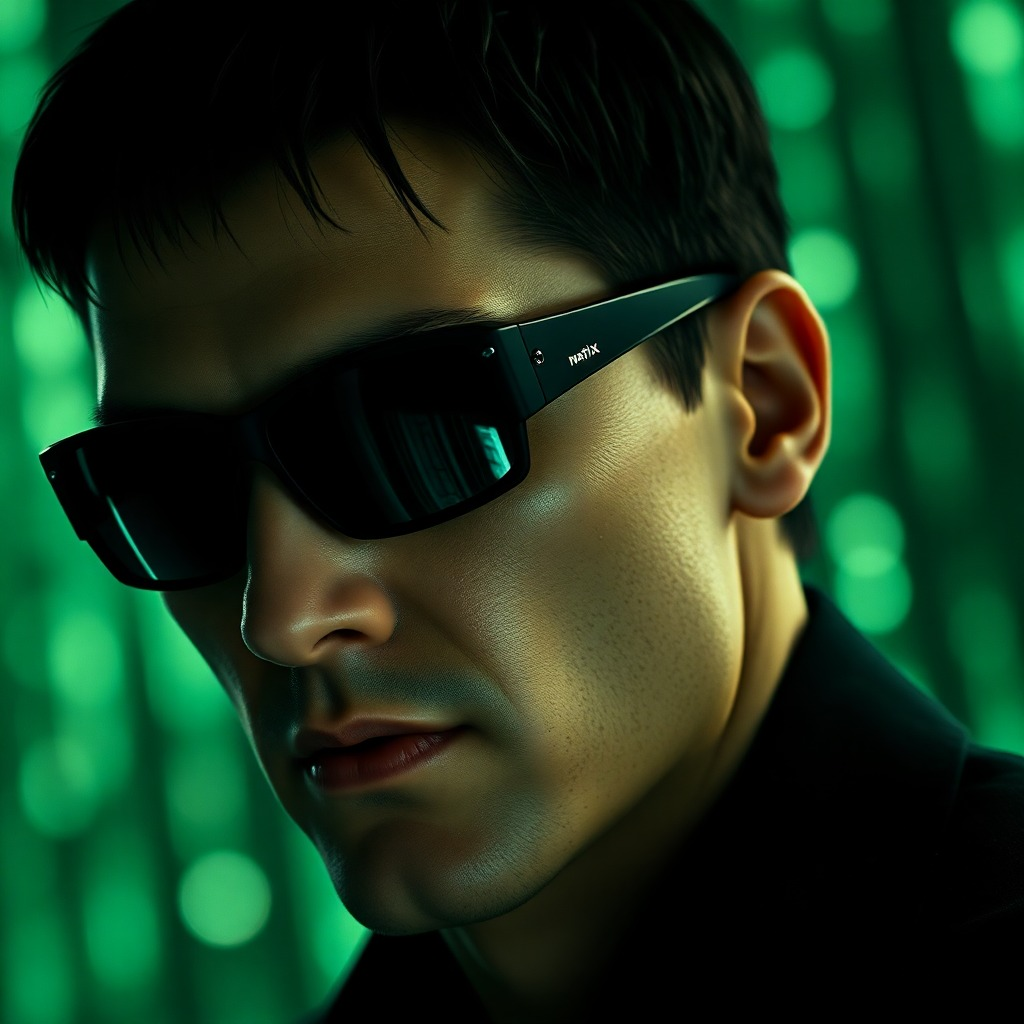
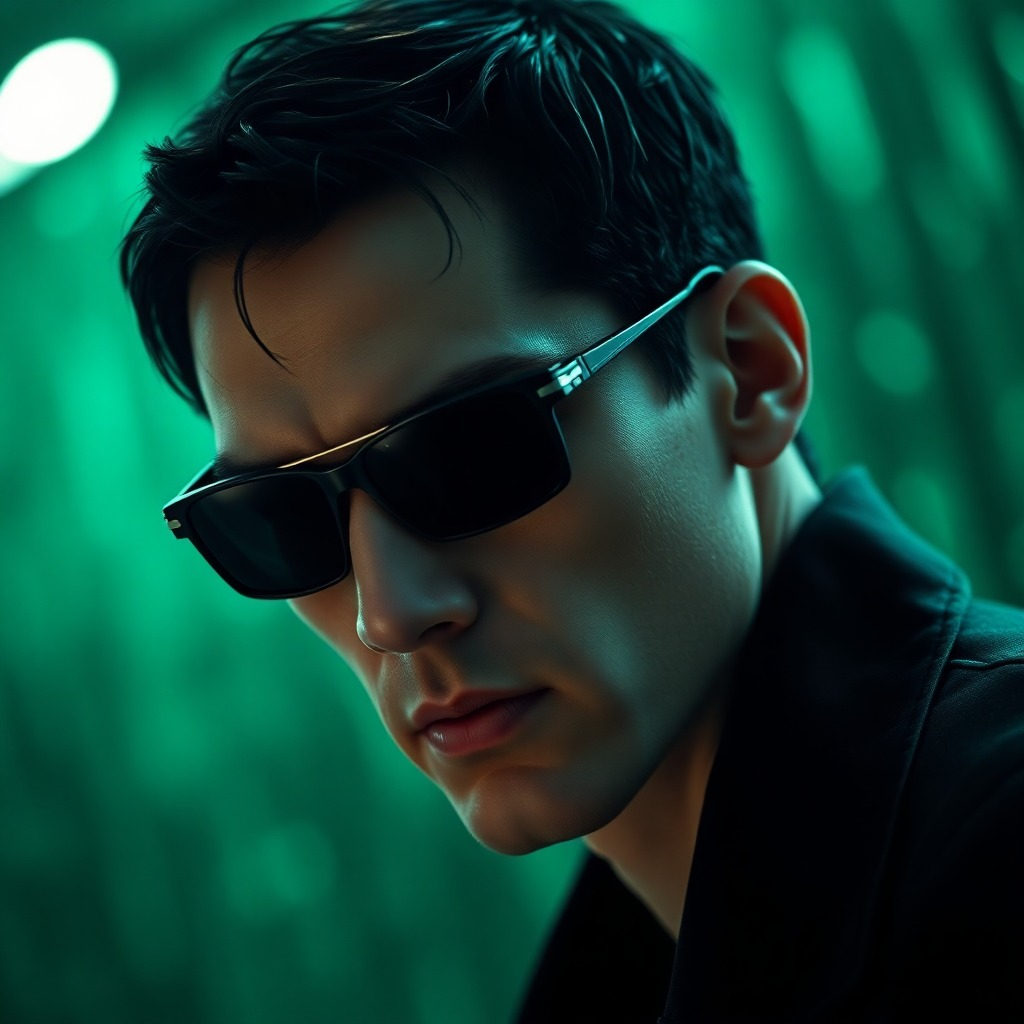
Polish renders, add backgrounds, full-body push, drop IP characters
Render quality (#1):
- Tighten InstantID weights across the board (lower controlnet 0.5→0.42
  for yourself, 0.4→0.32 for animated) — less face over-tracing, fewer
  proportion warps
- Bump steps 30→40 for cleaner output
- Stronger negative prompt: distorted proportions, asymmetric face,
  harsh under/top-light, blown highlights, missing feet/legs
- Positive prompt suffix: balanced three-point lighting,
  anatomically correct proportions, symmetric features
- Enable enhance_nonface_region for better full-body coherence

Backgrounds (#2):
- New BACKGROUNDS map: auto / city / nature / studio / cinematic /
  beach / abstract / night
- Horizontally-scrollable pill picker on the bank screen, sent as `bg`
  field, overrides the avatar's default env

Full body (#4):
- Add ULTRA-IMPORTANT FRAMING rule forcing full body, head to toe,
  feet visible into the system prompt
- Inject "full body, wide standing pose, feet visible" into the
  InstantID prompt suffix

Legal cleanup (#3, option A):
- Remove all IP-based characters: Mario, Mickey, Master Chief, Geralt,
  Aragorn, Link, Kratos, Joker, Neo, Arthas, Illidan, Sylvanas
- Replace Simpsons → "Yellow Toon Me": same flat-yellow-cartoon style
  but described generically (style is not copyrightable; named
  characters/places are)
- Delete the IP portrait JPGs from frontend/portraits/
- Generate new yellow_toon.jpg with non-infringing prompt
- Strip Matt Groening / Simpsons / Springfield references from style
[…]

diff --git a/backend/server.js b/backend/server.js
@@ -26,24 +26,25 @@ const AVATARS = {
   owl:          { name: 'Great Owl',    animal: 'great horned owl', base: 'huge luminous amber eyes, mottled brown-grey feathers, broad silent wings, wise expression', env: 'old-growth forest at night, full moon visible through dark twisted branches, fireflies glowing in the darkness, thick ancient tree trunk' },
   yourself:   { name: 'Just Me',    animal: 'regular contemporary person',  base: 'natural realistic features, smooth flattering skin, casual modern clothing, relaxed confident expression, authentic everyday look — no costume, no theme', env: 'bright overcast outdoor setting or open shade on a quiet city street, soft diffused daylight, gentle out-of-focus background, clean soft portrait lighting — no direct sun, no harsh shadows' },
   animated:   { name: 'Animated Me', animal: '2D animated TV-series character version of the person, in the visual style of the Netflix Stranger Things animated series (Flying Bark Productions) — modern western animation, semi-realistic stylized 2D, comparable to Arcane / Blood of Zeus', base: 'clean confident line work, painterly cel-shaded skin with soft gradient shadows, slightly stylized but anatomically grounded face proportions, expressive eyes with crisp highlights, hair drawn as defined shape clusters with painted highlights, recognizable likeness preserved (same face shape, hair, beard, skin tone), outfit chosen to fit their personality, looks like an official key frame from a high-end animated series', env: 'cinematic painted backdrop in the same animation style — subtle environmental scene matching their personality, hand-painted depth, soft atmospheric haze, restrained color palette, dramatic but not theatrical lighting' },
-  link:        { name: 'Link',          animal: 'Link from The Legend of Zelda', base: 'green tunic, pointed elf ears, blonde hair, blue determined eyes, master sword on back', env: 'lush Hyrule field at golden hour, distant mountains, swaying grass, soft volumetric god rays' },
-  kratos:      { name: 'Kratos',        animal: 'Kratos from God of War',        base: 'pale skin with red tattoo, beard, intense angry eyes, leviathan axe, leather armor', env: 'ash-grey Norse battlefield, broken stone runes, swirling smoke, dim cold backlight' },
-  mario:       { name: 'Mario',         animal: 'Super Mario',                   base: 'red cap with M, blue overalls, thick black mustache, cheerful smile, white gloves', env: 'Mushroom Kingdom green field, fluffy clouds, floating coins, bright cheerful lighting' },
-  master_chief:{ name: 'Master Chief',  animal: 'Master Chief from Halo',        base: 'green spartan armor, gold reflective visor helmet, MA5 rifle, heavy boots', env: 'alien battlefield at twilight, glassed earth, distant covenant ships, glowing plasma, volumetric haze' },
-  geralt:      { name: 'Geralt',        animal: 'Geralt of Rivia from The Witcher', base: 'long white hair, yellow cat eyes, scarred face, two swords on back, dark leather armor', env: 'dark misty swamp at dusk, gnarled trees, glowing eyes in shadows, cool blue moonlight' },
-  aragorn:     { name: 'Aragorn',       animal: 'Aragorn from Lord of the Rings', base: 'long dark hair, weathered noble face, ranger cloak, sword Andúril, elven brooch', env: 'Middle-earth mountain pass at dawn, distant peaks, banners of Gondor in the wind, soft golden mist' },
-  joker:       { name: 'Joker',         animal: 'The Joker',                     base: 'white face paint, green messy hair, red painted smile, purple suit, manic eyes', env: 'gritty Gotham alley at night, neon signs flickering, smoke, dramatic underlight' },
-  neo:         { name: 'Neo',           animal: 'Neo from The Matrix',           base: 'long black trench coat, sleek black sunglasses, short dark hair, stoic expression', env: 'green digital rain corridor, mirrored floors, infinite hallway, dramatic side lighting' },
-  mickey:      { name: 'Mickey',        animal: 'Mickey Mouse',                  base: 'black round ears, big round eyes, red shorts with two yellow buttons, white gloves, yellow shoes, cheerful grin', env: 'classic Disney castle at sunrise, fireworks, fluffy clouds, bright pastel colors, magical sparkles' },
-  arthas:      { name: 'Lich King',     animal: 'Arthas the Lich King from World of Warcraft', base: 'spiked ice crown helmet, glowing icy blue eyes, pale undead face, Frostmourne sword, dark armor', env: 'frozen throne in Icecrown Citadel, swirling snow, jagged ice spires, cold blue light' },
-  illidan:     { name: 'Illidan',       animal: 'Illidan Stormrage from World of Warcraft', base: 'horned demon hunter, long green-black hair, glowing green eyes behind blindfold, purple skin, twin warglaives', env: 'fel-green burning Outland landscape, floating rocks, demonic ruins, swirling green energy' },
-  sylvanas:    { name: 'Sylvanas',      animal: 'Sylvanas Windrunner banshee queen from World of Warcraft', base: 'long white hair, glowing red eyes, pale elf features, pointed ears, dark ranger armor, black bow', env: 'Undercity ruins under a blood-red sky, dark gothic architecture, swirling shadow magic, eerie atmosphere' },
-  simpsons:    { name: 'Simpsons Me',   animal: 'Simpsons cartoon character version of the person, in the official Matt Groening / The Simpsons TV-show style', base: 'flat bright yellow skin, simple bold black outlines, large round white eyes with small black pupils, classic Simpsons overbite mouth, four fingers per hand, simplified two-dimensional cartoon proportions, hair drawn as a single solid shape matching the person\'s real hairstyle and color, recognizable likeness preserved through hair shape, beard if any, glasses if worn, and clothing color — looks like an actual frame from The Simpsons', env: 'classic Simpsons setting (Springfield street, Moe\'s Tavern interior, Kwik-E-Mart, Springfield Elementary, or Simpson family living room with the orange couch), flat cartoon backdrop, bright primary colors, simple shapes' },
+  yellow_toon: { name: 'Yellow Toon Me', animal: 'flat 2D cartoon character version of the person, in the classic 90s American prime-time animated sitcom visual style', base: 'flat bright yellow skin, simple bold black outlines, large round white eyes with small black pupils, prominent overbite mouth, four fingers per hand, simplified two-dimensional cartoon proportions, hair drawn as a single solid shape matching the person\'s real hairstyle and color, recognizable likeness preserved through hair shape, beard if any, glasses if worn, and clothing color', env: 'generic small American suburban backdrop — quiet residential street with simple flat houses, picket fences, neatly trimmed lawns, blue sky with a few simple white clouds — flat cartoon vector backdrop, bright primary colors, simple shapes (NO real-world place names, NO TV-show locations)' },
   martian:     { name: 'Martian Me',    animal: 'Martian alien version of the person from the planet Mars',                base: 'smooth green or grey-green skin, large oval black or amber alien eyes, slim humanoid build, subtle ridges or markings on the head, sleek minimalist alien jumpsuit, the user\'s recognizable face structure echoed in the alien skull (same overall face shape, brow line, jaw, beard pattern as facial markings/ridges, hair pattern as crest or dorsal ridge if any) — clearly an alien, but unmistakably YOU as an alien', env: 'rust-red Martian desert under a pale orange sky, distant dusty mountains, two small moons (Phobos and Deimos) in the sky, futuristic alien outpost or crashed pod in the distance, fine red dust in the air' },
 };
 
-async function analyzeAndBuildPrompt(imageBase64, imageMime, gameAnswers, rankOrder, avatarKey) {
+const BACKGROUNDS = {
+  auto:       null,
+  city:       'modern city street at golden hour, warm out-of-focus storefronts and signs in the distance, gentle sunset light, urban energy',
+  nature:     'soft forest clearing, dappled sunlight through leaves, gentle green out-of-focus foliage, peaceful natural atmosphere',
+  studio:     'clean professional photo studio, smooth seamless gradient backdrop in muted neutral tones, soft balanced studio lighting',
+  cinematic:  'moody cinematic environment with soft volumetric haze, restrained color palette, dramatic but balanced atmospheric lighting, shallow depth of field',
+  beach:      'tranquil beach at sunset, soft golden light on the sand, gentle out-of-focus ocean waves, warm horizon glow',
+  abstract:   'minimal abstract backdrop, soft pastel gradient with gentle out-of-focus geometric shapes, calm modern atmosphere',
+  night:      'atmospheric night street with soft glowing neon and bokeh city lights, cool blue and warm magenta highlights, cinematic mood',
+};
+
+async function analyzeAndBuildPrompt(imageBase64, imageMime, gameAnswers, rankOrder, avatarKey, bgKey) {
   const av = AVATARS[avatarKey];
+  const bgOverride = BACKGROUNDS[bgKey] || null;
+  const env = bgOverride || av.env;
   const userContext = `Avatar chosen: ${av.animal}
 Reaction game answers: ${gameAnswers}
 Trait ranking (most to least important): ${rankOrder}
@@ -54,14 +55,15 @@ ${imageBase64 ? 'Face photo: provided (analyze expression, energy, features)' : 
 2. A highly detailed FLUX image prompt for a unique full body photorealistic ${av.animal} character
 
 Image prompt rules:
+- ULTRA-IMPORTANT FRAMING: this MUST be a FULL BODY shot — head to toe visible, wide framing, the entire figure standing within the frame from feet to top of head, with clear space around the body. NEVER a headshot, NEVER a bust crop, NEVER waist-up. The flux_prompt must explicitly contain the words "full body, head to toe, wide framing, full standing pose, feet visible".
 - Candid full body portrait of a ${av.animal} (${av.base}), captured in a natural unposed moment — not a hero pose, not posed for the camera
-- Setting: ${av.env} — described in plain natural language, like a real place that exists
+- Setting: ${env} — described in plain natural language, like a real place that exists
 - Subtle personality cues only: gaze, posture, micro-expression, the way light falls. Avoid theatrical drama.
 - Composition: off-center framing, natural camera angle at eye level or slightly ABOVE (never from below — low angles distort faces unflatteringly), shallow depth of field, environment visible but not overwhelming
 - ${ ['wolf','snow_leopard','monkey','eagle','fox','bear','tiger','owl'].includes(avatarKey) ? `REAL ANIMAL — absolutely no clothing, no outfit, no accessories — natural animal body only, like a wildlife documentary still.${imageBase64 ? avatarKey === 'monkey' ? ` SPIRIT-ANIMAL ECHO (MANDATORY — must appear explicitly in the flux_prompt): the japanese macaque has a bare flesh-pink face surrounded by a fur ruff — this is the most human-readable animal in the bank, so the resemblance must be obvious. Study the user's photo and write into the flux_prompt: (a) the macaque's facial skin tone matches the user's actual skin tone (name it: "warm olive", "fair pink", "deep brown"), (b) the surrounding fur ruff/cheek tufts/crown match the user's hair and beard — color, density and pattern (e.g. "thick salt-and-pepper fur ruff framing the face like a full beard", "short reddish-brown crown matching cropped auburn hair", "bald pink crown with grey side tufts"), (c) eye color named explicitly (warm brown, amber, hazel), (d) the same brow shape and expression (heavy thoughtful brow, gentle calm gaze, sharp alert focus). The result must read as a real macaque that anyone seeing the user's photo would instantly recognise.` : ` SPIRIT-ANIMAL ECHO (MANDATORY — must appear explicitly in the flux_prompt): study the user's face photo and pick specific, visible features — their actual eye color (name it: "amber", "warm brown", "green-grey"), their hair/beard color and pattern (name it: "salt-and-pepper grey muzzle and chest", "sandy-brown coat with grey around the eyes"), their expression (calm, intense, gentle). The animal's fur/feather coloring and facial markings MUST directly reflect these — e.g. a wolf with the user's salt-and-pepper grey around its muzzle and warm brown eyes. These must be written into the flux_prompt as concrete visual details, not as subtext. The animal still reads as a real animal — but one that visibly resembles the person.` : ''}` : 'ICONIC CHARACTER — the character look (costume, signature features, iconic hair/helmet/color scheme) MUST be fully rendered. The user\'s face should carry recognizable identity (bone structure, beard/hair, expression) but wearing the complete iconic outfit of this character — never their regular clothes with just an accessory.' }
-- Style: ${ ['wolf','snow_leopard','monkey','eagle','fox','bear','tiger','owl','yourself'].includes(avatarKey) ? 'documentary photography, soft diffused light (overcast sky, open shade, or soft window light — NEVER direct harsh sun), gentle flattering shadows, fine film grain, looks like it was actually photographed' : avatarKey === 'animated' ? 'high-end 2D animated TV-series still — Netflix Stranger Things animated series style (Flying Bark Productions), Arcane / Blood of Zeus quality, painterly cel-shading, defined ink-line silhouettes, soft watercolor-style ambient shadows, semi-realistic stylized faces with crisp eye highlights, painted background with depth — NOT 3D, NOT Pixar, NOT photoreal' : avatarKey === 'simpsons' ? 'official frame from The Simpsons TV show — Matt Groening style, flat 2D vector cartoon, bright yellow skin, bold black outlines, primary-color flat fills, no gradients, no shading beyond simple flat tones, classic Simpsons aesthetic exactly as on TV — NOT 3D, NOT realistic, NOT painterly' : avatarKey === 'martian' ? 'cinematic sci-fi character portrait — clean AAA render of an alien being, soft balanced lighting, subtle rim light, gentle atmospheric red dust, restrained color palette, looks like concept art for a serious sci-fi film' : 'clean AAA game-character render — soft even lighting, gentle natural shadows, low-contrast shading, subtle rim light only, no harsh dramatic shadows, no heavy atmospheric haze, balanced exposure, friendly approachable look, ArtStation quality' }
+- Style: ${ ['wolf','snow_leopard','monkey','eagle','fox','bear','tiger','owl','yourself'].includes(avatarKey) ? 'documentary photography, soft diffused light (overcast sky, open shade, or soft window light — NEVER direct harsh sun), gentle flattering shadows, fine film grain, looks like it was actually photographed' : avatarKey === 'animated' ? 'high-end 2D animated TV-series still — Netflix Stranger Things animated series style (Flying Bark Productions), Arcane / Blood of Zeus quality, painterly cel-shading, defined ink-line silhouettes, soft watercolor-style ambient shadows, semi-realistic stylized faces with crisp eye highlights, painted background with depth — NOT 3D, NOT Pixar, NOT photoreal' : avatarKey === 'yellow_toon' ? 'classic 90s American prime-time animated sitcom visual style — flat 2D vector cartoon, bright yellow skin, bold black ink outlines, primary-color flat fills, no gradients, no shading beyond simple flat tones, simple cel-animation aesthetic — NOT 3D, NOT realistic, NOT painterly. Generic style only — do NOT name or replicate any specific TV show, character, or location' : avatarKey === 'martian' ? 'cinematic sci-fi character portrait — clean AAA render of an alien being, soft balanced lighting, subtle rim light, gentle atmospheric red dust, restrained color palette, looks like concept art for a serious sci-fi film' : 'clean AAA game-character render — soft even lighting, gentle natural shadows, low-contrast shading, subtle rim light only, no harsh dramatic shadows, no heavy atmospheric haze, balanced exposure, friendly approachable look, ArtStation quality' }
 - 2-3 sentences, highly descriptive
-- End with: "${ ['wolf','snow_leopard','monkey','eagle','fox','bear','tiger','owl','yourself'].includes(avatarKey) ? 'shot on 35mm film, natural light, candid documentary style, soft realistic shadows, subtle film grain, full body framing' : avatarKey === 'animated' ? 'official animated TV series key frame, Netflix Stranger Things animated style, Flying Bark Productions, Arcane-quality 2D, painterly cel-shading, ink-line silhouettes, painted background, full body' : avatarKey === 'simpsons' ? 'official Simpsons TV-show frame, Matt Groening style, flat yellow skin, bold black outlines, classic 2D cartoon, full body' : avatarKey === 'martian' ? 'cinematic sci-fi alien portrait, clean AAA render, ArtStation quality, full body, ultra detailed' : 'clean AAA game render, soft balanced lighting, gentle shadows, low contrast, subtle rim light, natural exposure, approachable friendly tone, full body, ultra detailed' }"
+- End with: "${ ['wolf','snow_leopard','monkey','eagle','fox','bear','tiger','owl','yourself'].includes(avatarKey) ? 'shot on 35mm film, natural light, candid documentary style, soft realistic shadows, subtle film grain, full body framing' : avatarKey === 'animated' ? 'official animated TV series key frame, Netflix Stranger Things animated style, Flying Bark Productions, Arcane-quality 2D, painterly cel-shading, ink-line silhouettes, painted background, full body' : avatarKey === 'yellow_toon' ? 'classic 90s American animated sitcom style, flat yellow skin, bold black outlines, simple cel cartoon, full body' : avatarKey === 'martian' ? 'cinematic sci-fi alien portrait, clean AAA render, ArtStation quality, full body, ultra detailed' : 'clean AAA game render, soft balanced lighting, gentle shadows, low contrast, subtle rim light, natural exposure, approachable friendly tone, full body, ultra detailed' }"
 
 Respond in JSON only:
 {"description":"2-3 sentence personal description","flux_prompt":"detailed image prompt","traits":{"Composure":80,"Strategy":75,"Instinct":85,"Adaptability":70},"dominant_trait":"one word"}`;
@@ -110,18 +112,20 @@ async function generateImage(fluxPrompt) {
   throw new Error('Timed out');
 }
 
-const HUMAN_AVATARS = new Set(['yourself','animated','link','kratos','mario','master_chief','geralt','aragorn','joker','neo','mickey','arthas','illidan','sylvanas','simpsons','martian']);
+const HUMAN_AVATARS = new Set(['yourself','animated','martian','yellow_toon']);
 
 // InstantID — generates image WITH the user's face identity preserved.
 // Per-avatar weights: yourself needs high identity, iconic characters
 // need the character look to dominate (small facial echo only).
 const INSTANT_ID_WEIGHTS = {
-  yourself: { ip: 0.8, cn: 0.5 },
+  yourself: { ip: 0.8, cn: 0.42 },
   // animated: 2D series style needs strong face recognition (the whole
   // point is "you, animated") but enough room for the stylized look
-  animated: { ip: 0.7, cn: 0.4 },
+  animated: { ip: 0.7, cn: 0.32 },
+  martian:  { ip: 0.6, cn: 0.32 },
+  yellow_toon: { ip: 0.6, cn: 0.28 },
 };
-const ICONIC_WEIGHTS = { ip: 0.55, cn: 0.35 };
+const ICONIC_WEIGHTS = { ip: 0.55, cn: 0.32 };
 
 async function generateWithFace(prompt, faceBase64, faceMime, avatarKey) {
   const faceDataUrl = `data:${faceMime};base64,${faceBase64}`;
@@ -132,12 +136,13 @@ async function generateWithFace(prompt, faceBase64, faceMime, avatarKey) {
     headers: { 'Authorization': `Token ${process.env.REPLICATE_API_TOKEN}`, 'Content-Type': 'application/json' },
     body: JSON.stringify({ version: INSTANT_ID_VERSION, input: {
       image: faceDataUrl,
-      prompt: prompt + ', smooth flattering skin, soft even face lighting, gentle portrait, no harsh facial shadows',
-      negative_prompt: 'harsh wrinkles, deep facial lines, emphasized skin texture, uneven blotchy skin, harsh contrast shadows on face, heavy pores, exaggerated features, low quality, blurry, deformed, ugly, bad anatomy, multiple faces, extra limbs, realistic human face overriding the character, plain everyday clothing where iconic outfit should be',
-      num_inference_steps: 30,
+      prompt: prompt + ', full body head to toe, wide standing pose, feet visible, soft balanced three-point lighting, gentle key light with soft fill, neutral natural shadows, anatomically correct proportions, well-balanced face, symmetric features',
+      negative_prompt: 'cropped at waist, headshot only, bust crop, extreme close-up of face, distorted proportions, oversized head, tiny body, deformed body, asymmetric face, wonky eyes, crossed eyes, harsh under-light, harsh top-light, dramatic split lighting, blown highlights on face, blocked-up shadows on face, harsh wrinkles, deep facial lines, emphasized skin texture, uneven blotchy skin, heavy pores, exaggerated features, low quality, blurry, deformed, ugly, bad anatomy, multiple faces, extra limbs, missing feet, missing legs, realistic human face overriding the character, plain everyday clothing where iconic outfit should be',
+      num_inference_steps: 40,
       guidance_scale: 5,
       ip_adapter_scale: w.ip,
       controlnet_conditioning_scale: w.cn,
+      enhance_nonface_region: true,
       output_format: 'jpg',
       output_quality: 95,
     } })
@@ -163,10 +168,10 @@ async function generateWithFace(prompt, faceBase64, faceMime, avatarKey) {
 }
 
 // Run the full pipeline in background
-async function runJob(jobId, imageBase64, imageMime, gameAnswers, rankOrder, avatarKey) {
+async function runJob(jobId, imageBase64, imageMime, gameAnswers, rankOrder, avatarKey, bgKey) {
   try {
     jobs[jobId].status = 'analyzing';
-    const claudeResult = await analyzeAndBuildPrompt(imageBase64, imageMime, gameAnswers, rankOrder, avatarKey);
+    const claudeResult = await analyzeAndBuildPrompt(imageBase64, imageMime, gameAnswers, rankOrder, avatarKey, bgKey);
 
     jobs[jobId].status = 'generating';
     jobs[jobId].description = claudeResult.description;
@@ -199,6 +204,7 @@ async function runJob(jobId, imageBase64, imageMime, gameAnswers, rankOrder, ava
 app.post('/start', upload.single('face'), (req, res) => {
   const jobId = Date.now().toString(36) + Math.random().toString(36).slice(2);
   const avatarKey = req.body.avatar || 'wolf';
+  const bgKey = req.body.bg || 'auto';
   const gameAnswers = req.body.q1 || '';
   const rankOrder = req.body.q2 || '';
 
@@ -210,7 +216,7 @@ app.post('/start', upload.single('face'), (req, res) => {
   }
 
   jobs[jobId] = { status: 'starting' };
-  runJob(jobId, imageBase64, imageMime, gameAnswers, rankOrder, avatarKey);
+  runJob(jobId, imageBase64, imageMime, gameAnswers, rankOrder, avatarKey, bgKey);
 
   res.json({ jobId });
 });

diff --git a/frontend/index.html b/frontend/index.html
@@ -169,6 +169,11 @@
   .pk-foot { padding:6px 4px 0; display:flex; gap:4px; flex-wrap:wrap; font-family:'Orbitron',sans-serif; }
   .pk-tag { font-size:8px; letter-spacing:1px; color:#a89878; border:1px solid rgba(168,152,120,0.3); padding:1px 5px; text-transform:uppercase; }
 
+  /* BG PICKER */
+  .bg-pill { flex-shrink:0; padding:8px 14px; border-radius:100px; background:var(--surface2); border:1.5px solid var(--border); color:var(--text); font-size:12px; font-weight:500; cursor:pointer; white-space:nowrap; transition:all 0.15s; }
+  .bg-pill.sel { background:rgba(200,150,106,0.12); border-color:var(--accent); color:var(--accent); }
+  #bg-picker::-webkit-scrollbar { display:none; }
+
   /* CTA */
   .cta { width:calc(100% - 48px); margin:0 24px 20px; background:var(--accent); color:#050805; border:none; cursor:pointer; padding:18px; border-radius:14px; font-family:'Bebas Neue',sans-serif; font-size:22px; letter-spacing:2px; transition:transform 0.15s,opacity 0.2s; }
   .cta:active { transform:scale(0.98); }
@@ -386,70 +391,10 @@
           <div class="pk-frame" style="aspect-ratio:auto;height:160px"><img src="portraits/animated.jpg" loading="lazy"/></div>
           <div class="pk-foot"><span class="pk-tag">Game Render</span><span class="pk-tag">Stylized</span></div>
         </div>
-        <div class="pk-card" onclick="pickAv(this,'link')">
-          <div class="pk-head"><span class="pk-name">Link</span><span class="pk-type">HERO</span></div>
-          <div class="pk-frame"><img src="portraits/link.jpg" loading="lazy"/></div>
-          <div class="pk-foot"><span class="pk-tag">Brave</span><span class="pk-tag">Quiet</span></div>
-        </div>
-        <div class="pk-card" onclick="pickAv(this,'kratos')">
-          <div class="pk-head"><span class="pk-name">Kratos</span><span class="pk-type">RAGE</span></div>
-          <div class="pk-frame"><img src="portraits/kratos.jpg" loading="lazy"/></div>
-          <div class="pk-foot"><span class="pk-tag">Fury</span><span class="pk-tag">Power</span></div>
-        </div>
-        <div class="pk-card" onclick="pickAv(this,'mario')">
-          <div class="pk-head"><span class="pk-name">Mario</span><span class="pk-type">JOY</span></div>
-          <div class="pk-frame"><img src="portraits/mario.jpg" loading="lazy"/></div>
-          <div class="pk-foot"><span class="pk-tag">Cheerful</span><span class="pk-tag">Underdog</span></div>
-        </div>
-        <div class="pk-card" onclick="pickAv(this,'master_chief')">
-          <div class="pk-head"><span class="pk-name">Master Chief</span><span class="pk-type">SPARTAN</span></div>
-          <div class="pk-frame"><img src="portraits/master_chief.jpg" loading="lazy"/></div>
-          <div class="pk-foot"><span class="pk-tag">Stoic</span><span class="pk-tag">Soldier</span></div>
-        </div>
-        <div class="pk-card" onclick="pickAv(this,'geralt')">
-          <div class="pk-head"><span class="pk-name">Geralt</span><span class="pk-type">WITCHER</span></div>
-          <div class="pk-frame"><img src="portraits/geralt.jpg" loading="lazy"/></div>
-          <div class="pk-foot"><span class="pk-tag">Wanderer</span><span class="pk-tag">Grim</span></div>
-        </div>
-        <div class="pk-card" onclick="pickAv(this,'aragorn')">
-          <div class="pk-head"><span class="pk-name">Aragorn</span><span class="pk-type">KING</span></div>
-          <div class="pk-frame"><img src="portraits/aragorn.jpg" loading="lazy"/></div>
-          <div class="pk-foot"><span class="pk-tag">Noble</span><span class="pk-tag">Leader</span></div>
-        </div>
-        <div class="pk-card" onclick="pickAv(this,'joker')">
-          <div class="pk-head"><span class="pk-name">Joker</span><span class="pk-type">CHAOS</span></div>
-          <div class="pk-frame"><img src="portraits/joker.jpg" loading="lazy"/></div>
-          <div class="pk-foot"><span class="pk-tag">Wild</span><span class="pk-tag">Unhinged</span></div>
-        </div>
-        <div class="pk-card" onclick="pickAv(this,'neo')">
-          <div class="pk-head"><span class="pk-name">Neo</span><span class="pk-type">THE ONE</span></div>
-          <div class="pk-frame"><img src="portraits/neo.jpg" loading="lazy"/></div>
-          <div class="pk-foot"><span class="pk-tag">Chosen</span><span class="pk-tag">Calm</span></div>
-        </div>
-        <div class="pk-card" onclick="pickAv(this,'mickey')">
-          <div class="pk-head"><span class="pk-name">Mickey</span><span class="pk-type">CLASSIC</span></div>
-          <div class="pk-frame"><img src="portraits/mickey.jpg" loading="lazy"/></div>
-          <div class="pk-foot"><span class="pk-tag">Iconic</span><span class="pk-tag">Cheerful</span></div>
-        </div>
-        <div class="pk-card" onclick="pickAv(this,'arthas')">
-          <div class="pk-head"><span class="pk-name">Lich King</span><span class="pk-type">FROZEN</span></div>
-          <div class="pk-frame"><img src="portraits/arthas.jpg" loading="lazy"/></div>
-          <div class="pk-foot"><span class="pk-tag">Fallen</span><span class="pk-tag">Cold</span></div>
-        </div>
-        <div class="pk-card" onclick="pickAv(this,'illidan')">
-          <div class="pk-head"><span class="pk-name">Illidan</span><span class="pk-type">DEMON</span></div>
-          <div class="pk-frame"><img src="portraits/illidan.jpg" loading="lazy"/></div>
-          <div class="pk-foot"><span class="pk-tag">Outcast</span><span class="pk-tag">Furious</span></div>
-        </div>
-        <div class="pk-card" onclick="pickAv(this,'sylvanas')">
-          <div class="pk-head"><span class="pk-name">Sylvanas</span><span class="pk-type">BANSHEE</span></div>
-          <div class="pk-frame"><img src="portraits/sylvanas.jpg" loading="lazy"/></div>
-          <div class="pk-foot"><span class="pk-tag">Vengeful</span><span class="pk-tag">Cold</span></div>
-        </div>
-        <div class="pk-card" onclick="pickAv(this,'simpsons')">
-          <div class="pk-head"><span class="pk-name">Simpsons Me</span><span class="pk-type">D'OH</span></div>
-          <div class="pk-frame"><img src="portraits/simpsons.jpg" loading="lazy"/></div>
-          <div class="pk-foot"><span class="pk-tag">Yellow</span><span class="pk-tag">Springfield</span></div>
+        <div class="pk-card" onclick="pickAv(this,'yellow_toon')">
+          <div class="pk-head"><span class="pk-name">Yellow Toon Me</span><span class="pk-type">2D</span></div>
+          <div class="pk-frame"><img src="portraits/yellow_toon.jpg" loading="lazy"/></div>
+          <div class="pk-foot"><span class="pk-tag">Cartoon</span><span class="pk-tag">Suburban</span></div>
         </div>
         <div class="pk-card" onclick="pickAv(this,'martian')">
           <div class="pk-head"><span class="pk-name">Martian Me</span><span class="pk-type">MARS</span></div>
@@ -458,6 +403,19 @@
         </div>
       </div>
 
+      <div style="padding:0 24px 12px">
+        <div class="label" style="margin-bottom:8px">Background <span style="color:var(--muted);font-weight:400;letter-spacing:0">(optional)</span></div>
+        <div id="bg-picker" style="display:flex;gap:6px;overflow-x:auto;padding-bottom:4px;scrollbar-width:none">
+          <div class="bg-pill sel" data-bg="auto" onclick="pickBg(this)">✨ Auto</div>
+          <div class="bg-pill" data-bg="city" onclick="pickBg(this)">🏙 City</div>
+          <div class="bg-pill" data-bg="nature" onclick="pickBg(this)">🌲 Nature</div>
+          <div class="bg-pill" data-bg="studio" onclick="pickBg(this)">📸 Studio</div>
+          <div class="bg-pill" data-bg="cinematic" onclick="pickBg(this)">🎬 Cinematic</div>
+          <div class="bg-pill" data-bg="beach" onclick="pickBg(this)">🏖 Beach</div>
+          <div class="bg-pill" data-bg="abstract" onclick="pickBg(this)">🎨 Abstract</div>
+          <div class="bg-pill" data-bg="night" onclick="pickBg(this)">🌃 Night</div>
+        </div>
+      </div>
       <button class="cta" id="bcta" onclick="generate()" disabled>GENERATE MY AVATAR ✦</button>
     </div>
 
@@ -537,6 +495,13 @@ var uploads = { face: null, body: false, voice: false };
 var gameAnswers = [];
 var rankOrder = [];
 var chosenAv = null;
+var chosenBg = 'auto';
+
+function pickBg(el) {
+  document.querySelectorAll('.bg-pill').forEach(p => p.classList.remove('sel'));
+  el.classList.add('sel');
+  chosenBg = el.dataset.bg;
+}
 
 const AV_PHOTOS = {
   yourself:     'portraits/yourself.jpg',
@@ -549,19 +514,7 @@ const AV_PHOTOS = {
   bear:         'portraits/bear.jpg',
   tiger:        'portraits/tiger.jpg',
   owl:          'portraits/owl.jpg',
-  link:         'portraits/link.jpg',
-  kratos:       'portraits/kratos.jpg',
-  mario:        'portraits/mario.jpg',
-  master_chief: 'portraits/master_chief.jpg',
-  geralt:       'portraits/geralt.jpg',
-  aragorn:      'portraits/aragorn.jpg',
-  joker:        'portraits/joker.jpg',
-  neo:          'portraits/neo.jpg',
-  mickey:       'portraits/mickey.jpg',
-  arthas:       'portraits/arthas.jpg',
-  illidan:      'portraits/illidan.jpg',
-  sylvanas:     'portraits/sylvanas.jpg',
-  simpsons:     'portraits/simpsons.jpg',
+  yellow_toon:  'portraits/yellow_toon.jpg',
   martian:      'portraits/martian.jpg',
 };
 
@@ -797,6 +750,7 @@ async function generate() {
     formData.append('q1', gameAnswers.map(a => a.scenario + ': ' + a.choice).join(' | '));
     formData.append('q2', rankOrder.map(t => t.name).join(' > '));
     formData.append('avatar', chosenAv);
+    formData.append('bg', chosenBg);
     if (uploads.face) formData.append('face', uploads.face);
 
     // Start job
